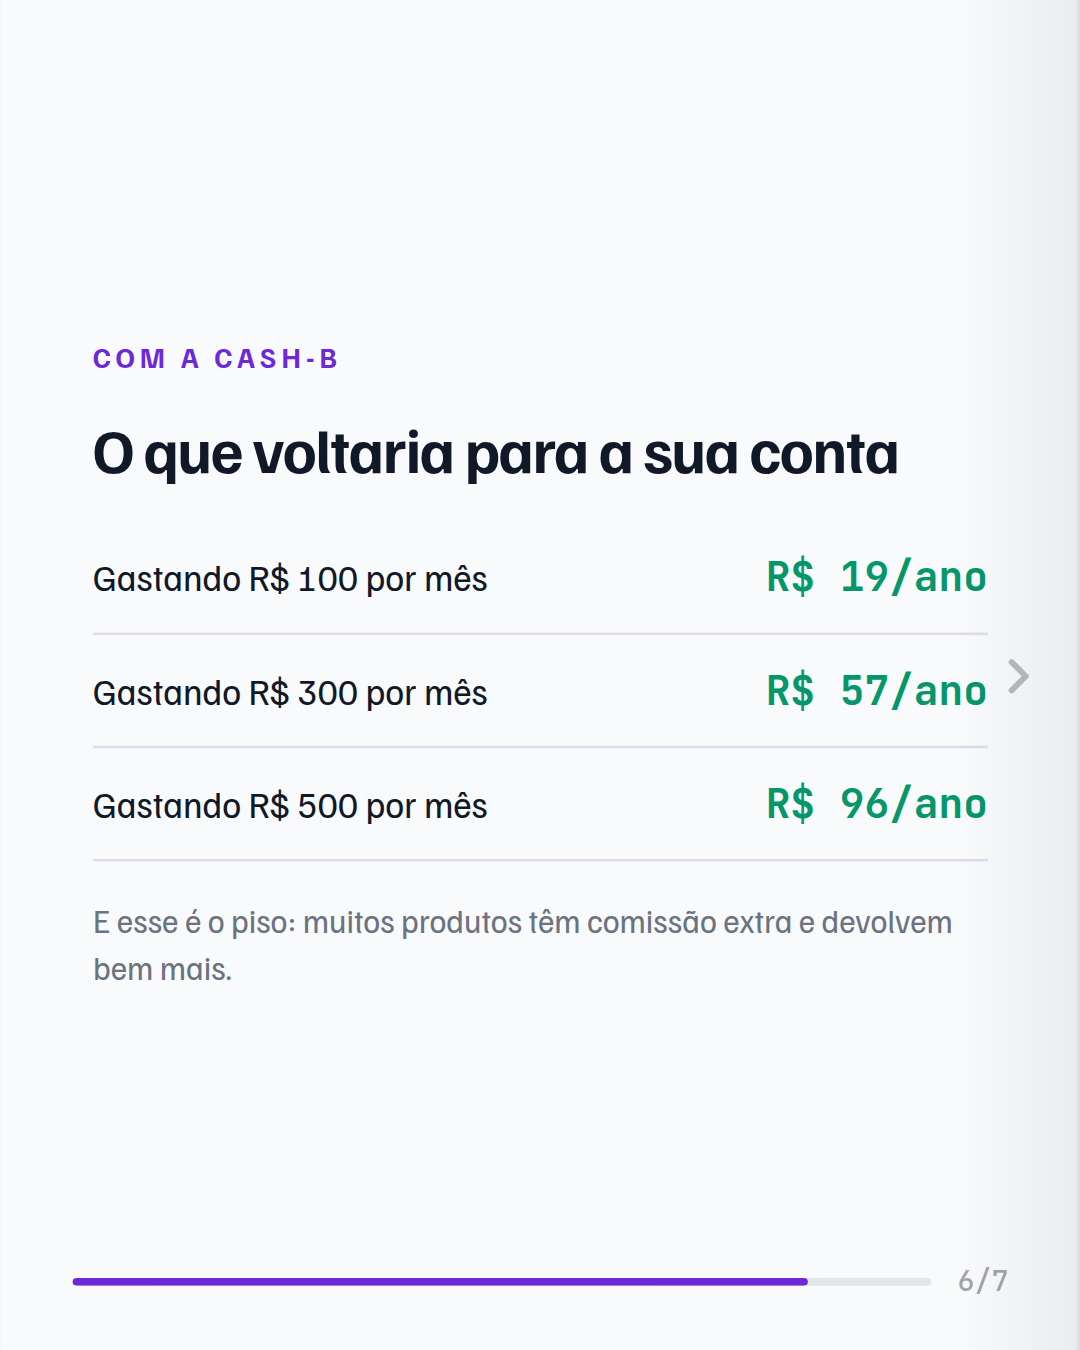
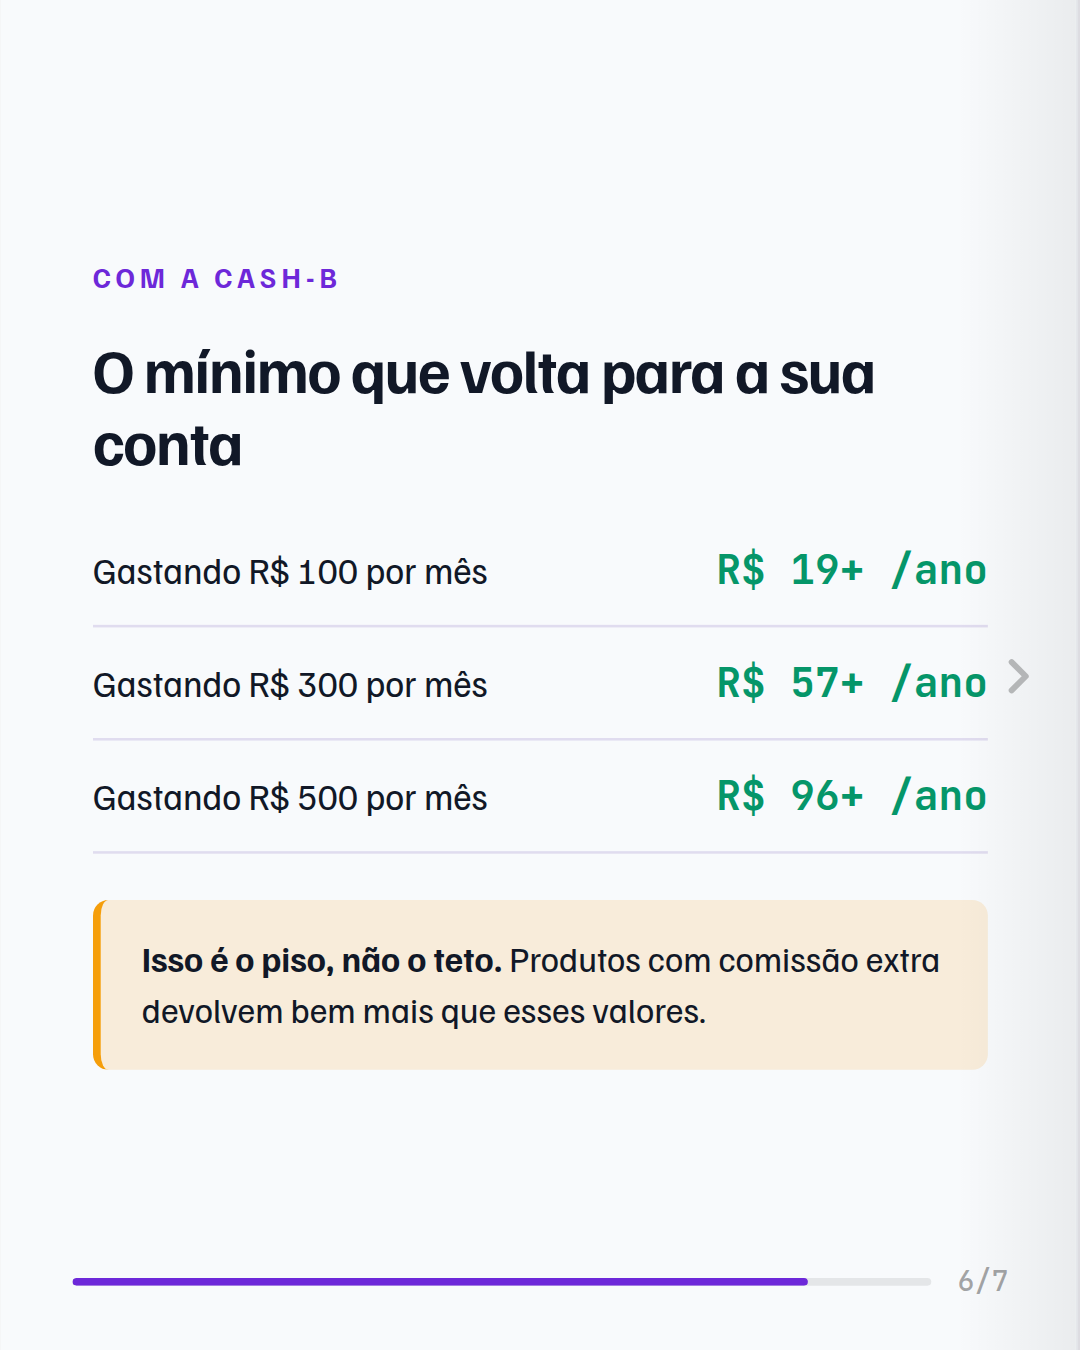
Dá ênfase real ao "no mínimo" na tabela de cashback do gasto anual
O aviso de que 1,6% é piso e não teto estava só numa nota cinza no rodapé do
slide - onde a informação morre. Agora aparece em três sinais: o título ("O
mínimo que volta..."), o "+" colado em cada valor e uma caixa de destaque em
âmbar ("Isso é o piso, não o teto").

Adiciona o helper destaque() na base para esse tipo de aviso que não pode
passar batido.

Claude-Session: https://claude.ai/code/session_017WZWLEiMQvHUst5KUYseHY

diff --git a/marketing/instagram/carrossel-gasto-anual/preview.html b/marketing/instagram/carrossel-gasto-anual/preview.html
@@ -211,33 +211,37 @@ body {
                         padding:44px 36px 52px;">
                 
     <span style="display:block; font-family:Familjen; font-size:11px; font-weight:700; letter-spacing:2px; text-transform:uppercase; color:#6d28d9; margin-bottom:16px;">com a cash-b</span>
-    <div style="font-family:Familjen; font-size:24px; font-weight:700; line-height:1.16; letter-spacing:-0.025em; color:#111827;">O que voltaria para a sua conta</div>
+    <div style="font-family:Familjen; font-size:24px; font-weight:700; line-height:1.16; letter-spacing:-0.025em; color:#111827;">O mínimo que volta para a sua conta</div>
     <div style="margin-top:14px;">
         
     <div style="display:flex; align-items:center; justify-content:space-between;
                 padding:11px 0; border-bottom:1px solid #e0dcef;">
         <span style="font-family:Familjen; font-size:14px; color:#111827;">Gastando R$ 100 por mês</span>
-        <span style="font-family:'JB Mono'; font-size:16px; font-weight:700; color:#059669;">R$ 19/ano</span>
+        <span style="font-family:'JB Mono'; font-size:16px; font-weight:700; color:#059669;">R$ 19+ /ano</span>
     </div>
     
         
     <div style="display:flex; align-items:center; justify-content:space-between;
                 padding:11px 0; border-bottom:1px solid #e0dcef;">
         <span style="font-family:Familjen; font-size:14px; color:#111827;">Gastando R$ 300 por mês</span>
-        <span style="font-family:'JB Mono'; font-size:16px; font-weight:700; color:#059669;">R$ 57/ano</span>
+        <span style="font-family:'JB Mono'; font-size:16px; font-weight:700; color:#059669;">R$ 57+ /ano</span>
     </div>
     
         
     <div style="display:flex; align-items:center; justify-content:space-between;
                 padding:11px 0; border-bottom:1px solid #e0dcef;">
         <span style="font-family:Familjen; font-size:14px; color:#111827;">Gastando R$ 500 por mês</span>
-        <span style="font-family:'JB Mono'; font-size:16px; font-weight:700; color:#059669;">R$ 96/ano</span>
+        <span style="font-family:'JB Mono'; font-size:16px; font-weight:700; color:#059669;">R$ 96+ /ano</span>
     </div>
     
     </div>
-    <div style="font-family:Familjen; font-size:12.5px; color:#6b7280; margin-top:14px; line-height:1.45;">
-        E esse é o piso: muitos produtos têm comissão extra e devolvem bem mais.
+    
+    <div style="margin-top:18px; padding:13px 16px; background:rgba(245,158,11,0.14);
+                border-left:3px solid #f59e0b; border-radius:6px; font-family:Familjen;
+                font-size:13.5px; color:#111827; line-height:1.5;">
+        <b>Isso é o piso, não o teto.</b> Produtos com comissão extra devolvem bem mais que esses valores.
     </div>
+    
     
             </div>
             

diff --git a/marketing/instagram/gerar_carrossel_gasto_anual.py b/marketing/instagram/gerar_carrossel_gasto_anual.py
@@ -26,6 +26,7 @@ from carrossel_base import (
     MUTED,
     Slide,
     cta_pill,
+    destaque,
     fonte,
     gerar,
     linha_valor,
@@ -69,17 +70,18 @@ SLIDES = [
     <div style="font-family:'JB Mono'; font-size:52px; font-weight:700; color:{HIGHLIGHT}; margin-top:24px; letter-spacing:-0.03em;">R$ 0,00</div>
     """, False),
 
+    # O "no mínimo" aparece em três lugares de propósito (título, o "+" colado no
+    # valor e a caixa de destaque): a versão anterior deixava isso só numa nota
+    # cinza no rodapé, que é justamente onde a informação morre.
     Slide(LIGHT_BG, f"""
     {tag_label("com a cash-b", BRAND_PRIMARY)}
-    {titulo("O que voltaria para a sua conta", 24, DARK_BG)}
+    {titulo("O mínimo que volta para a sua conta", 24, DARK_BG)}
     <div style="margin-top:14px;">
-        {linha_valor("Gastando R$ 100 por mês", "R$ 19/ano")}
-        {linha_valor("Gastando R$ 300 por mês", "R$ 57/ano")}
-        {linha_valor("Gastando R$ 500 por mês", "R$ 96/ano")}
+        {linha_valor("Gastando R$ 100 por mês", "R$ 19+ /ano")}
+        {linha_valor("Gastando R$ 300 por mês", "R$ 57+ /ano")}
+        {linha_valor("Gastando R$ 500 por mês", "R$ 96+ /ano")}
     </div>
-    <div style="font-family:Familjen; font-size:12.5px; color:{MUTED}; margin-top:14px; line-height:1.45;">
-        E esse é o piso: muitos produtos têm comissão extra e devolvem bem mais.
-    </div>
+    {destaque("<b>Isso é o piso, não o teto.</b> Produtos com comissão extra devolvem bem mais que esses valores.")}
     """, True),
 
     Slide(BRAND_GRADIENT, f"""

diff --git a/marketing/instagram/carrossel_base.py b/marketing/instagram/carrossel_base.py
@@ -127,6 +127,18 @@ def numero_gigante(valor, legenda, cor=HIGHLIGHT, cor_legenda="rgba(255,255,255,
     """
 
 
+def destaque(texto, cor=HIGHLIGHT):
+    """Caixa de destaque com barra colorida à esquerda. Para a informação que não pode
+    passar batida - nota em cinza pequeno no rodapé do slide quase ninguém lê."""
+    return f"""
+    <div style="margin-top:18px; padding:13px 16px; background:rgba(245,158,11,0.14);
+                border-left:3px solid {cor}; border-radius:6px; font-family:Familjen;
+                font-size:13.5px; color:{DARK_BG}; line-height:1.5;">
+        {texto}
+    </div>
+    """
+
+
 def fonte(texto, escuro=False):
     """Crédito da fonte, em corpo bem pequeno no pé do slide. Todo slide que mostra
     número de pesquisa externa leva um - dado sem origem é o tipo de coisa que
